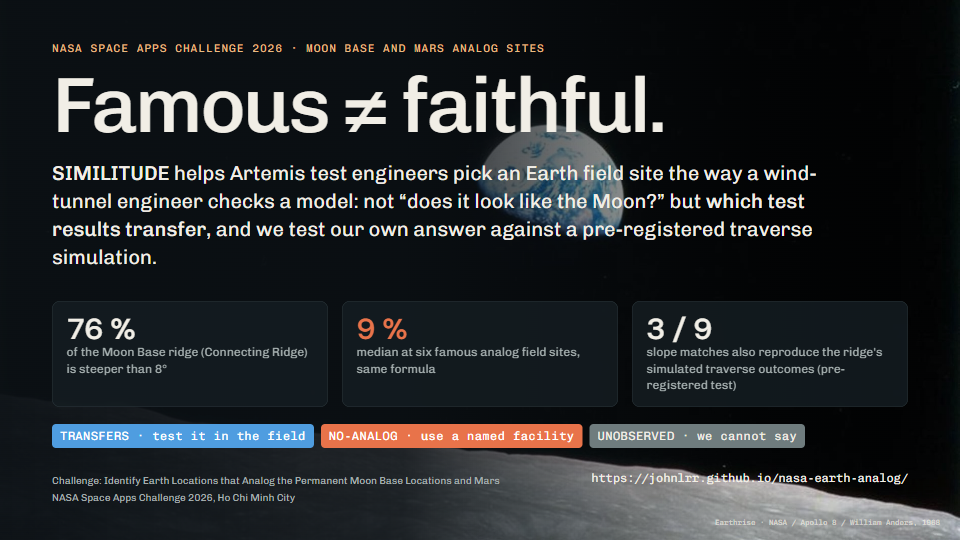
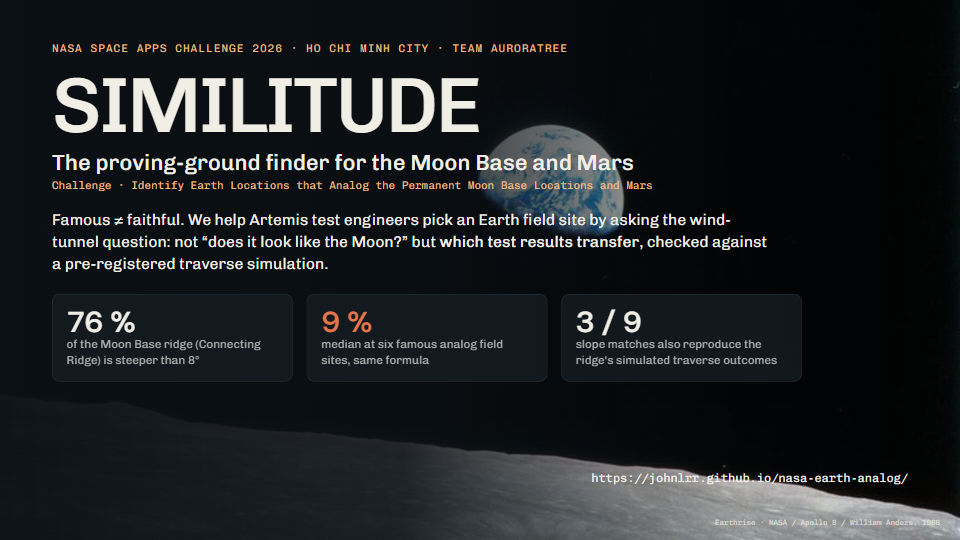
Slides cover: project name, topic, challenge, team AuroraTree, then the brief; render can write to a temp path when the PDF is open elsewhere

Changed region(s): [[0.0312, 0.0593, 0.8438, 0.5037], [0.0312, 0.5333, 0.9688, 0.8296], [0.0625, 0.8593, 0.5312, 0.9481]]

diff --git a/slides/deck.html b/slides/deck.html
@@ -79,25 +79,19 @@ ul.pts li::before { content: ""; position: absolute; left: 0; top: 14px; width: 
 .small { font-size: 20px; line-height: 1.4; color: var(--muted); }
 </style></head><body>
 <section class="slide" id="s1">
-  <p class="eyebrow">NASA Space Apps Challenge 2026 · Moon Base and Mars analog sites</p>
-  <h1 class="cover">Famous ≠ faithful.</h1>
-  <p class="lead" style="font-size:40px;max-width:1560px"><b>SIMILITUDE</b> helps Artemis test engineers pick an Earth field site the way a wind-tunnel engineer checks a model:
-    not “does it look like the Moon?” but <b>which test results transfer</b>, and we test our own answer against a pre-registered traverse simulation.</p>
-  <div class="row" style="margin-top:60px;gap:28px">
-    <div class="tile" style="flex:1"><span class="num">76 %</span><p style="font-size:24px">of the Moon Base ridge (Connecting Ridge) is steeper than 8°</p></div>
-    <div class="tile" style="flex:1"><span class="num" style="color:var(--n)">9 %</span><p style="font-size:24px">median at six famous analog field sites, same formula</p></div>
-    <div class="tile" style="flex:1"><span class="num">3 / 9</span><p style="font-size:24px">slope matches also reproduce the ridge's simulated traverse outcomes (pre-registered test)</p></div>
-  </div>
-  <div style="margin-top:34px" class="verdicts">
-    <span class="v t">TRANSFERS · test it in the field</span>
-    <span class="v n">NO-ANALOG · use a named facility</span>
-    <span class="v u">UNOBSERVED · we cannot say</span>
+  <p class="eyebrow">NASA Space Apps Challenge 2026 · Ho Chi Minh City · Team AuroraTree</p>
+  <h1 class="cover" style="margin-bottom:8px">SIMILITUDE</h1>
+  <p style="font-size:44px;line-height:1.15;font-weight:600;margin:0 0 6px;max-width:1500px">The proving-ground finder for the Moon Base and Mars</p>
+  <p class="mono" style="font-size:22px;color:var(--accent);margin:0 0 34px">Challenge · Identify Earth Locations that Analog the Permanent Moon Base Locations and Mars</p>
+  <p class="lead" style="font-size:31px;max-width:1450px;color:var(--ink)">Famous ≠ faithful. We help Artemis test engineers pick an Earth field site by asking the wind-tunnel question:
+    not “does it look like the Moon?” but <b>which test results transfer</b>, checked against a pre-registered traverse simulation.</p>
+  <div class="row" style="margin-top:40px;gap:28px;max-width:1500px">
+    <div class="tile" style="flex:1"><span class="num">76 %</span><p style="font-size:23px">of the Moon Base ridge (Connecting Ridge) is steeper than 8°</p></div>
+    <div class="tile" style="flex:1"><span class="num" style="color:var(--n)">9 %</span><p style="font-size:23px">median at six famous analog field sites, same formula</p></div>
+    <div class="tile" style="flex:1"><span class="num">3 / 9</span><p style="font-size:23px">slope matches also reproduce the ridge's simulated traverse outcomes</p></div>
   </div>
   <div class="row" style="margin-top:auto;align-items:flex-end">
-    <div class="grow">
-      <p class="small" style="margin:0">Challenge: Identify Earth Locations that Analog the Permanent Moon Base Locations and Mars</p>
-      <p class="small" style="margin:6px 0 0">NASA Space Apps Challenge 2026, Ho Chi Minh City</p>
-    </div>
+    <div class="grow"></div>
     <div class="links" style="text-align:right;margin-bottom:34px">https://johnlrr.github.io/nasa-earth-analog/</div>
   </div>
   <span class="credit">Earthrise · NASA / Apollo 8 / William Anders, 1968</span>

diff --git a/scripts/slides/build_deck.py b/scripts/slides/build_deck.py
@@ -138,25 +138,19 @@ ul.pts li::before { content: ""; position: absolute; left: 0; top: 14px; width: 
 
 SLIDES = r"""
 <section class="slide" id="s1">
-  <p class="eyebrow">NASA Space Apps Challenge 2026 · Moon Base and Mars analog sites</p>
-  <h1 class="cover">Famous ≠ faithful.</h1>
-  <p class="lead" style="font-size:40px;max-width:1560px"><b>SIMILITUDE</b> helps Artemis test engineers pick an Earth field site the way a wind-tunnel engineer checks a model:
-    not “does it look like the Moon?” but <b>which test results transfer</b>, and we test our own answer against a pre-registered traverse simulation.</p>
-  <div class="row" style="margin-top:60px;gap:28px">
-    <div class="tile" style="flex:1"><span class="num">{{cr_frac_gt8:pct0}}</span><p style="font-size:24px">of the Moon Base ridge (Connecting Ridge) is steeper than 8°</p></div>
-    <div class="tile" style="flex:1"><span class="num" style="color:var(--n)">{{classic_frac_gt8_median:pct0}}</span><p style="font-size:24px">median at six famous analog field sites, same formula</p></div>
-    <div class="tile" style="flex:1"><span class="num">{{v1_passer_reproduce}} / {{v1_passer_n}}</span><p style="font-size:24px">slope matches also reproduce the ridge's simulated traverse outcomes (pre-registered test)</p></div>
-  </div>
-  <div style="margin-top:34px" class="verdicts">
-    <span class="v t">TRANSFERS · test it in the field</span>
-    <span class="v n">NO-ANALOG · use a named facility</span>
-    <span class="v u">UNOBSERVED · we cannot say</span>
+  <p class="eyebrow">NASA Space Apps Challenge 2026 · Ho Chi Minh City · Team AuroraTree</p>
+  <h1 class="cover" style="margin-bottom:8px">SIMILITUDE</h1>
+  <p style="font-size:44px;line-height:1.15;font-weight:600;margin:0 0 6px;max-width:1500px">The proving-ground finder for the Moon Base and Mars</p>
+  <p class="mono" style="font-size:22px;color:var(--accent);margin:0 0 34px">Challenge · Identify Earth Locations that Analog the Permanent Moon Base Locations and Mars</p>
+  <p class="lead" style="font-size:31px;max-width:1450px;color:var(--ink)">Famous ≠ faithful. We help Artemis test engineers pick an Earth field site by asking the wind-tunnel question:
+    not “does it look like the Moon?” but <b>which test results transfer</b>, checked against a pre-registered traverse simulation.</p>
+  <div class="row" style="margin-top:40px;gap:28px;max-width:1500px">
+    <div class="tile" style="flex:1"><span class="num">{{cr_frac_gt8:pct0}}</span><p style="font-size:23px">of the Moon Base ridge (Connecting Ridge) is steeper than 8°</p></div>
+    <div class="tile" style="flex:1"><span class="num" style="color:var(--n)">{{classic_frac_gt8_median:pct0}}</span><p style="font-size:23px">median at six famous analog field sites, same formula</p></div>
+    <div class="tile" style="flex:1"><span class="num">{{v1_passer_reproduce}} / {{v1_passer_n}}</span><p style="font-size:23px">slope matches also reproduce the ridge's simulated traverse outcomes</p></div>
   </div>
   <div class="row" style="margin-top:auto;align-items:flex-end">
-    <div class="grow">
-      <p class="small" style="margin:0">Challenge: Identify Earth Locations that Analog the Permanent Moon Base Locations and Mars</p>
-      <p class="small" style="margin:6px 0 0">__TEAM_LINE__</p>
-    </div>
+    <div class="grow"></div>
     <div class="links" style="text-align:right;margin-bottom:34px">__SITE_URL__</div>
   </div>
   <span class="credit">Earthrise · NASA / Apollo 8 / William Anders, 1968</span>
